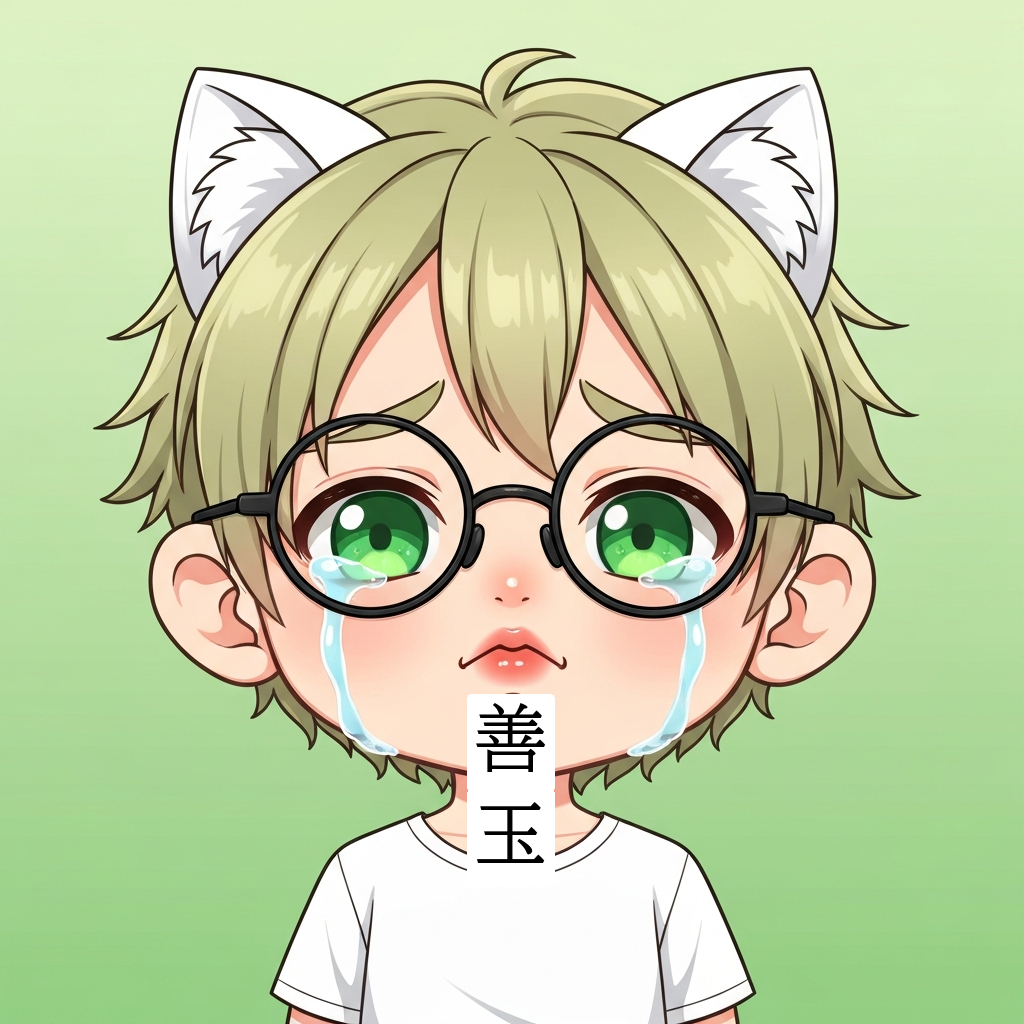
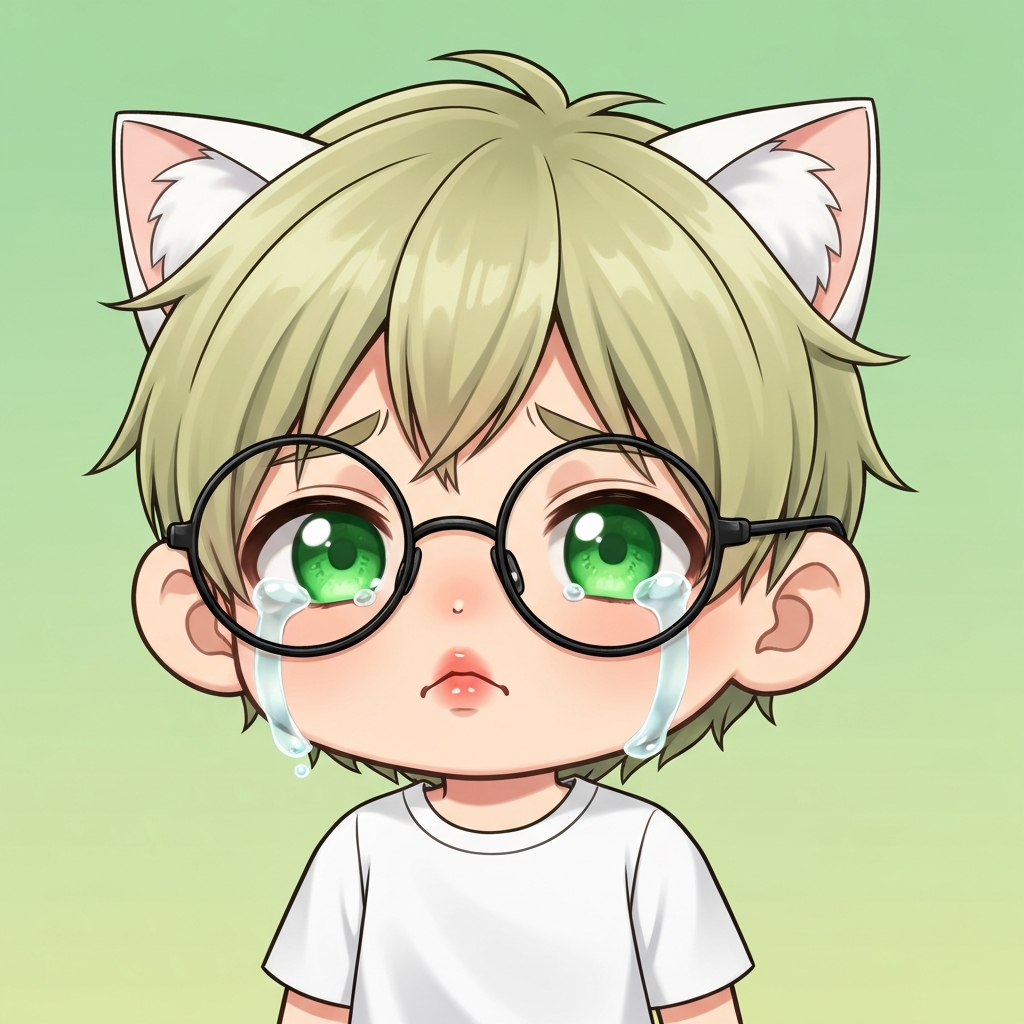
fix: ちびSDキャラ全10枚をテキストなしクリーンシャツに更新
- 善玉テキストオーバーレイを全て除去・再生成
- シャツはすべてプレーンな白無地に統一

diff --git a/zendama-genki/index.html b/zendama-genki/index.html
@@ -543,7 +543,7 @@
       <div class="section-title">ちびキャラSD — 表情10バリエーション</div>
       <div class="section-desc">
         ゆるいバリエーション中で特に好評だった <strong>ちびキャラSD</strong> を深掘り。
-        同キャラクター（猫耳・黄緑髪・黒縁メガネ）で喜怒哀楽10種類の表情を展開。胸に「善玉」縦書き入り。
+        同キャラクター（猫耳・黄緑髪・黒縁メガネ）で喜怒哀楽10種類の表情を展開。
       </div>
     </div>
   </div>
